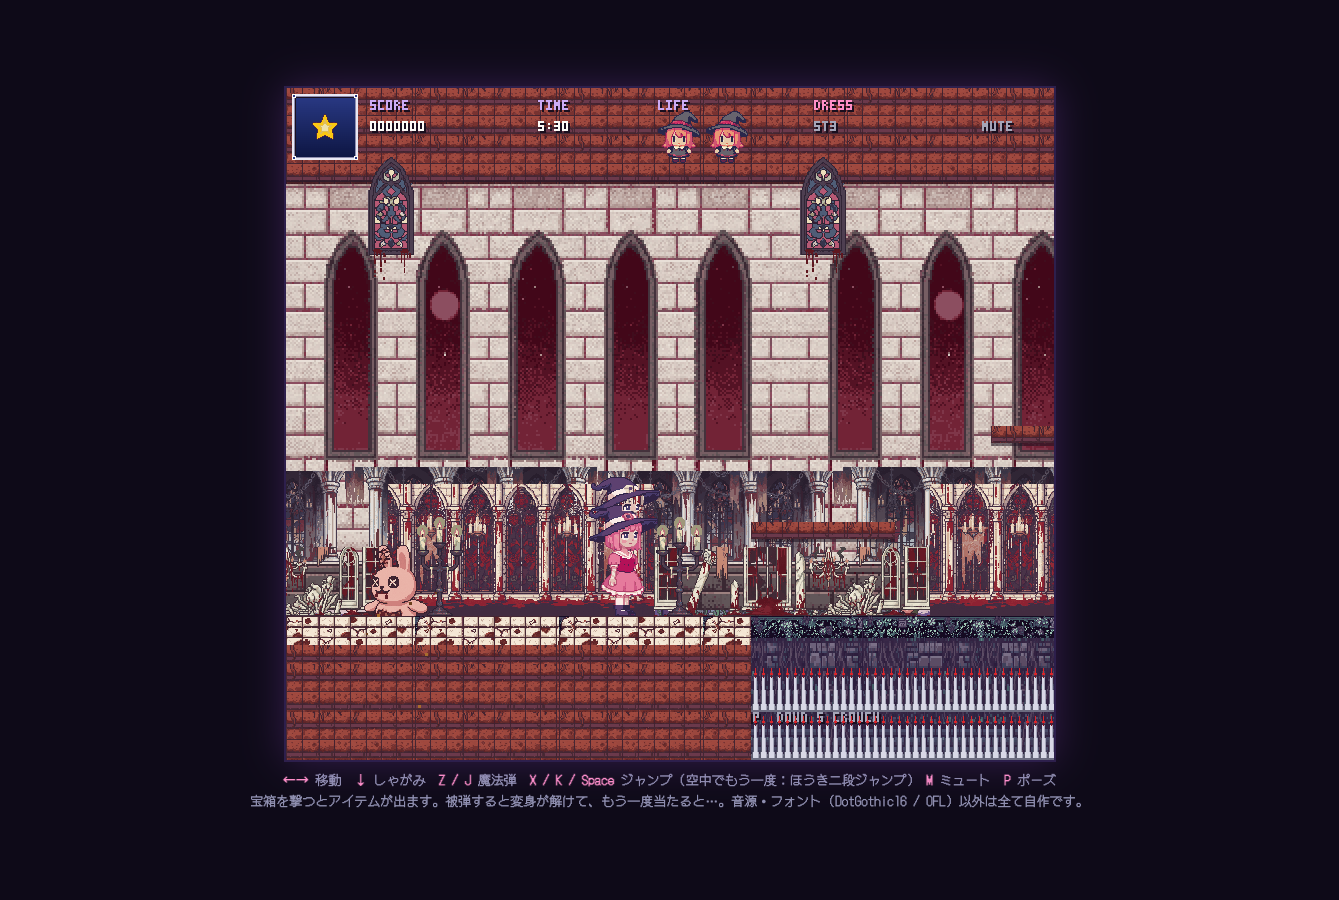
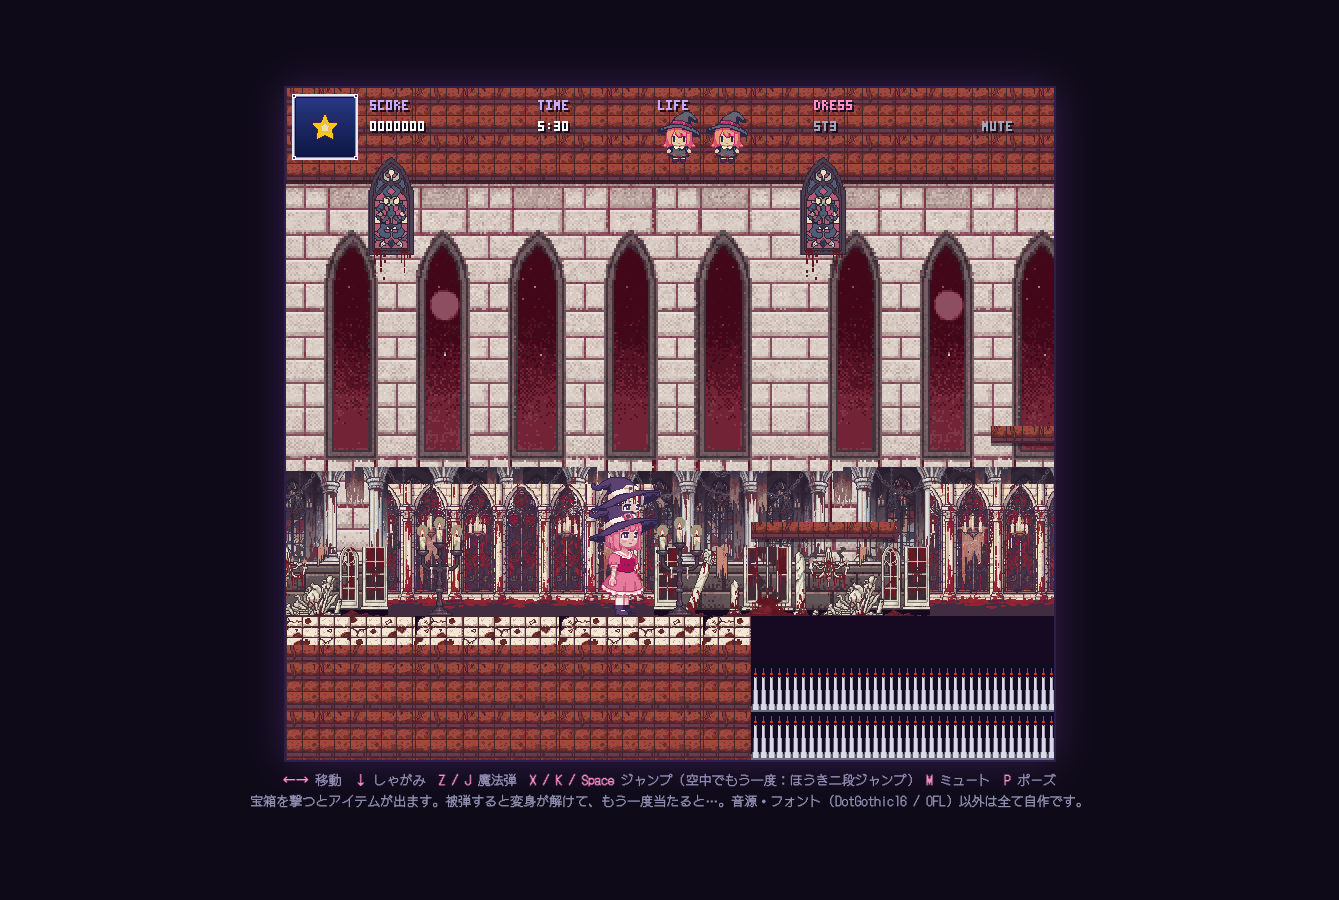
fix(bg): clear frame with base color before sky (castle wall at 2 px/cell left stale pixels below y174)

Changed region(s): [[0.5512, 0.6533, 0.7961, 0.84], [0.245, 0.5911, 0.3368, 0.6844], [0.5205, 0.6533, 0.5512, 0.6844]]

diff --git a/src/gfx/hdworld.js b/src/gfx/hdworld.js
@@ -94,6 +94,8 @@ export function renderMapLayerHD(map, tiles, decoTiles, chunkWorld = 512, decoHD
 // 1 リクエストで得られる横幅（約 250 セル）の制約による妥協。docs/art-standard.md §2.4 参照。
 const BG_PX = { sky: 3, far: 1, mid: 1 }; // 遠景は A/B 2 変異体（高さ ≈ 130〜160 セル）を連結して 1 画面 px/セル。空のみ 3 倍のまま（docs/plan/02-near-term.md 課題 1）
 export function drawBackgroundHD(g, layers, camX, W, H) {
+  // 下地: 空が画面全体を覆わない場合（城の奥壁 2 px/セル = y174 まで）に前フレームが残らないよう、先に暗色で塗る
+  g.fillStyle = layers.base ?? '#150a22'; g.fillRect(0, 0, W, H);
   if (layers.sky) {
     // 空は既定 3 px/セル。layers.skyPx で層ごとに上書き（城の奥壁は 2: 261 セル × 2 = 522 px = 地面線 y174 まで届く）。幅が足りなければ横に繰り返す
     const s = (layers.skyPx ?? BG_PX.sky) / HD_SCALE, sw = layers.sky.r.width * s, sh = layers.sky.r.height * s;
